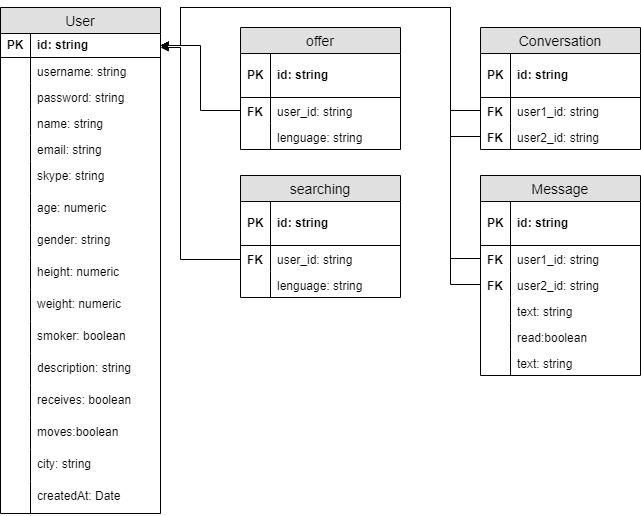
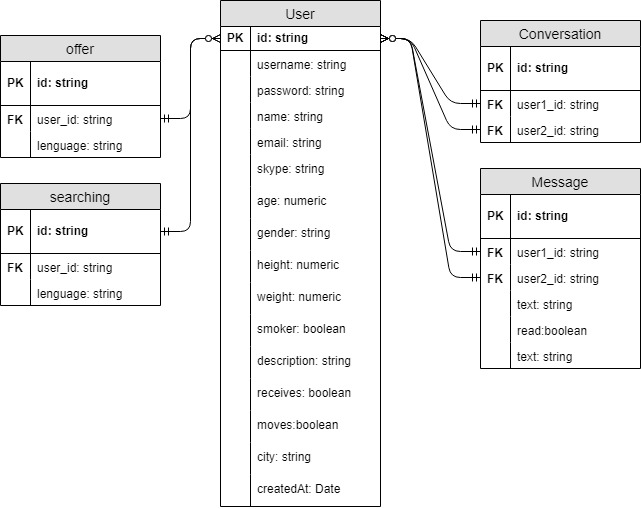
add data model diagram to docs

diff --git a/staff/sergio-luz/langchange-web/langchange-docs/README.md b/staff/sergio-luz/langchange-web/langchange-docs/README.md
@@ -72,9 +72,11 @@ The application is written in ES6 and user data is persistent across page reload
 ## Class Diagram
 
 ![](images/class-diagram1.jpg) 
+***
 
 ![](images/class-diagram2.jpg) 
 
+***
 ![](images/class-diagram3.jpg) 
 
 ## Data Model Diagram
